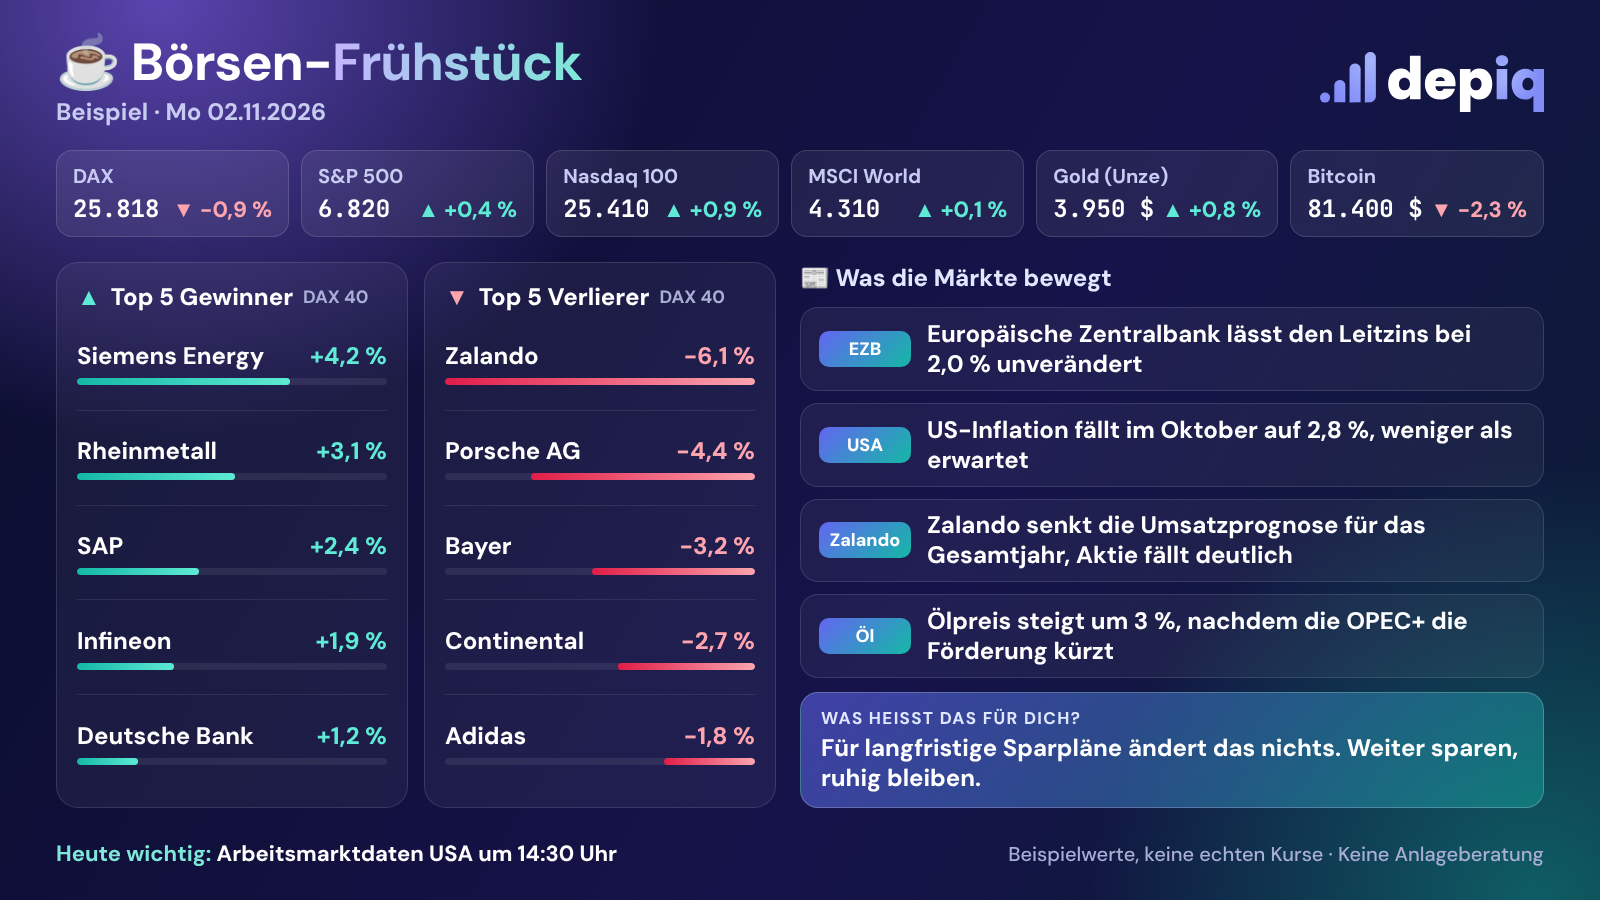
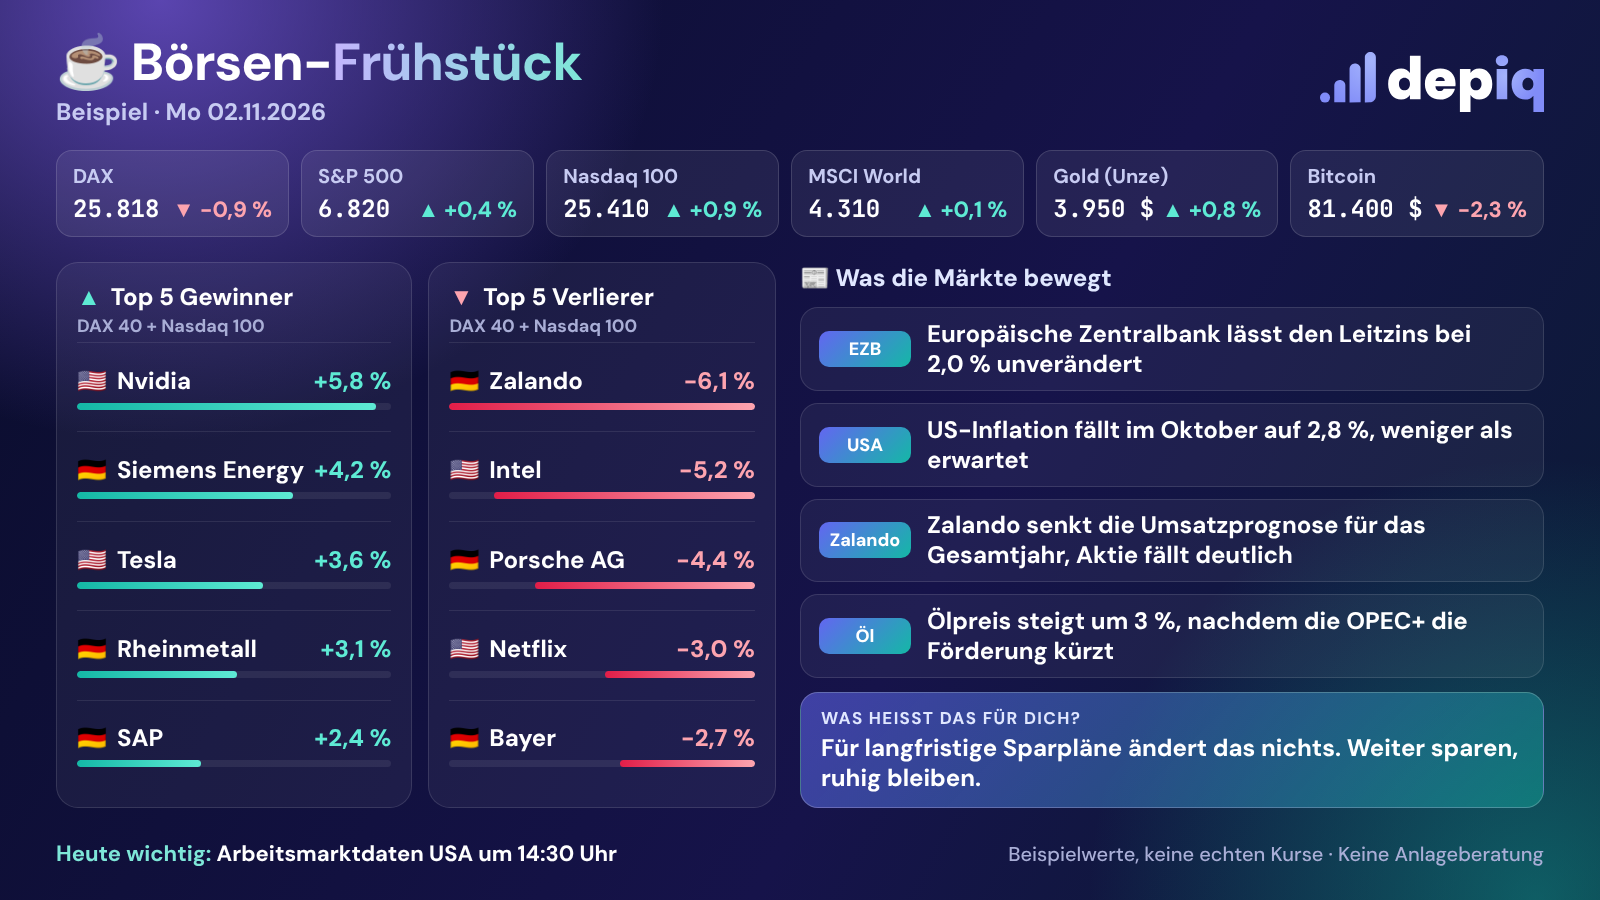
Börsen-Frühstück: Gewinner/Verlierer aus DAX 40 + Nasdaq 100 mit Flagge
Claude-Session: https://claude.ai/code/session_01TCMRwfkoPUXt6cdHJjM9Lg

diff --git a/vorlage/boersen.html b/vorlage/boersen.html
@@ -2,8 +2,8 @@
 <!-- Börsen-Frühstück für X, 1600 × 900. Daten kommen aus einer JSON-Datei (siehe render-boersen.js):
      { "datum":"Mo 02.11.2026", "stand":"Schlusskurse vom 30.10.2026",
        "indizes":[{"name":"DAX","wert":"25.818","prozent":-0.85}, … bis 6: DAX, S&P 500, Nasdaq 100, MSCI World, Gold, Bitcoin],
-       "auswahl":"DAX 40",
-       "gewinner":[{"name":"Siemens Energy","prozent":4.2}, … genau 5],
+       "auswahl":"DAX 40 + Nasdaq 100",
+       "gewinner":[{"name":"Siemens Energy","land":"🇩🇪","prozent":4.2}, … genau 5, land 🇩🇪 oder 🇺🇸],
        "verlierer":[{"name":"Zalando","prozent":-6.1}, … genau 5],
        "news":[{"wer":"EZB","text":"Europäische Zentralbank lässt den Leitzins bei 2,0 % unverändert"}, … 3 bis 4],
        "heute":"14:30 Uhr: Arbeitsmarktdaten USA",
@@ -33,7 +33,8 @@ body{font-family:'DM Sans',sans-serif;color:#fff;background:#0a0d2c;position:rel
 /* linke Hälfte: Gewinner / Verlierer */
 .links{position:absolute;left:56px;top:262px;width:720px;bottom:92px;display:grid;grid-template-columns:1fr 1fr;gap:16px}
 .box{background:rgba(255,255,255,.05);border:1.5px solid rgba(255,255,255,.12);border-radius:22px;padding:18px 20px;display:flex;flex-direction:column}
-.box h2{font-size:24px;font-weight:800;margin-bottom:4px;display:flex;align-items:center;gap:10px}
+.box h2{font-size:24px;font-weight:800;white-space:nowrap;display:flex;align-items:center;gap:10px}
+.box .aus{font-size:18px;color:#a9aed6;font-weight:700;margin:2px 0 4px}
 .box h2 small{font-size:18px;color:#a9aed6;font-weight:700}
 .box.g h2 b{color:#5eead4}.box.v h2 b{color:#fda4af}
 .zeile{flex:1;display:flex;flex-direction:column;justify-content:center;border-top:1px solid rgba(255,255,255,.09)}
@@ -41,6 +42,7 @@ body{font-family:'DM Sans',sans-serif;color:#fff;background:#0a0d2c;position:rel
 .zeile .o{display:flex;justify-content:space-between;align-items:baseline;gap:10px}
 .zeile .a{font-size:24px;font-weight:700;white-space:nowrap;overflow:hidden;text-overflow:ellipsis}
 .zeile .pc{font-size:24px}
+.zeile .a em{font-style:normal;margin-right:10px}
 .bar{height:7px;border-radius:9px;background:rgba(255,255,255,.08);margin-top:7px;overflow:hidden}
 .bar i{display:block;height:100%;border-radius:9px}
 .g .bar i{background:linear-gradient(90deg,#14b8a6,#5eead4)}
@@ -73,9 +75,9 @@ window.zeichne = d => {
   const ix = document.getElementById('idx'); ix.style.setProperty('--n', d.indizes.length);
   ix.innerHTML = d.indizes.map(x => `<div class="i"><div class="n">${x.name}</div><div class="r"><span class="z">${x.wert}</span><span class="pc ${k(x.prozent)}">${pf(x.prozent)} ${f(x.prozent)}</span></div></div>`).join('');
   const max = Math.max(1, ...[...d.gewinner, ...d.verlierer].map(x => Math.abs(x.prozent)));
-  const liste = (a) => a.map(x => `<div class="zeile"><div class="o"><span class="a">${x.name}</span><span class="pc ${k(x.prozent)}">${f(x.prozent)}</span></div><div class="bar"><i style="width:${Math.abs(x.prozent) / max * 100}%"></i></div></div>`).join('');
-  document.getElementById('gew').innerHTML = `<h2><b>▲</b> Top 5 Gewinner <small>${d.auswahl}</small></h2>` + liste(d.gewinner);
-  document.getElementById('ver').innerHTML = `<h2><b>▼</b> Top 5 Verlierer <small>${d.auswahl}</small></h2>` + liste(d.verlierer);
+  const liste = (a) => a.map(x => `<div class="zeile"><div class="o"><span class="a">${x.land ? `<em>${x.land}</em>` : ''}${x.name}</span><span class="pc ${k(x.prozent)}">${f(x.prozent)}</span></div><div class="bar"><i style="width:${Math.abs(x.prozent) / max * 100}%"></i></div></div>`).join('');
+  document.getElementById('gew').innerHTML = `<h2><b>▲</b> Top 5 Gewinner</h2><div class="aus">${d.auswahl}</div>` + liste(d.gewinner);
+  document.getElementById('ver').innerHTML = `<h2><b>▼</b> Top 5 Verlierer</h2><div class="aus">${d.auswahl}</div>` + liste(d.verlierer);
   document.getElementById('news').innerHTML = d.news.map(n => `<div class="nw"><span class="w">${n.wer}</span><p>${n.text.replace(/ (%|\$|€|Uhr)/g, "\u00a0$1")}</p></div>`).join('');
   document.getElementById('einordnung').textContent = d.einordnung || '';
   document.getElementById('fuer').style.display = d.einordnung ? '' : 'none';

diff --git a/boersen/LIESMICH.md b/boersen/LIESMICH.md
@@ -8,7 +8,7 @@ Täglicher Post an Börsentagen (Mo–Fr), vorbereitet von einer geplanten Aufga
 
 Aufbau des Bildes:
 - oben: Indexleiste mit 6 Werten (DAX, S&P 500, Nasdaq 100, MSCI World, Gold, Bitcoin)
-- links: Top 5 Gewinner und Top 5 Verlierer aus dem DAX 40 (Feld `auswahl`), reine Tagesveränderung in Prozent
+- links: Top 5 Gewinner und Top 5 Verlierer aus DAX 40 und Nasdaq 100 zusammen (Feld `auswahl`), jede Zeile mit Flagge 🇩🇪 oder 🇺🇸 (Feld `land`), reine Tagesveränderung in Prozent
 - rechts: 3 bis 4 Markt-News, jede mit Absender-Etikett (`wer`: EZB, Fed, USA, Firmenname …) und einem vollständigen Satz, der sagt, wer was getan hat. Nie „Notenbank“ ohne Namen, immer „Europäische Zentralbank“, „US-Notenbank Fed“ usw.
 - darunter: „Was heißt das für dich?“
 
